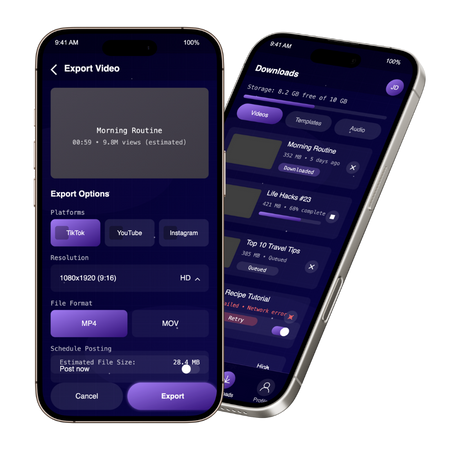
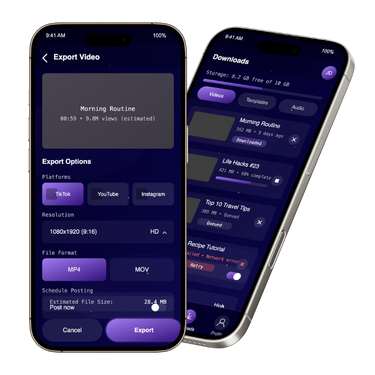
mobile mockups and fixes

diff --git a/index.html b/index.html
@@ -753,79 +753,127 @@
       margin: 0 auto;
     }
 
-    /* Steps Section - Update these styles */
+    /* Adjusted Device Mockup Styles - More to the left, wider X-spacing, slight tilts */
     .steps-visual {
       position: relative;
       display: flex;
       justify-content: center;
       align-items: center;
       height: 500px;
-      perspective: none; /* Remove perspective */
+      margin-top: 30px;
     }
     
     .device-mockup {
       position: absolute;
-      transition: transform 0.5s ease;
+      transition: transform 0.3s ease, box-shadow 0.3s ease;
       box-shadow: 0 10px 30px rgba(0, 0, 0, 0.5);
       border-radius: 10px;
       overflow: hidden;
-      width: 350px; /* All devices same width */
+      width: 350px;
       max-width: 350px;
       height: auto;
-      left: 50%;
-      transform: translateX(-50%); /* Center horizontally */
     }
     
+    /* Keep the Y positions the same, adjust X positions more to the left, add tilt */
     .device-mockup:nth-child(1) {
-      top: -175px; /* Position at top */
-      z-index: 3; /* Top-most image */
+      top: -175px; /* Original Y position */
+      left: 15%; /* More to the left */
+      z-index: 3;
+      transform: rotate(-3deg); /* Slight tilt */
     }
     
     .device-mockup:nth-child(2) {
-      top: 137px; /* Position in middle */
+      top: 137px; /* Original Y position */
+      left: 38%; /* Center device, wider spacing */
       z-index: 2;
+      transform: rotate(2deg); /* Slight tilt in opposite direction */
     }
     
     .device-mockup:nth-child(3) {
-      top: 483px; /* Position at bottom */
+      top: 483px; /* Original Y position */
+      left: 22%; /* More to the left, different from others */
       z-index: 1;
+      transform: rotate(-4deg); /* More tilt */
     }
     
+    /* Simple hover effect with tilt preserved */
     .device-mockup:hover {
-      transform: translateX(-50%); /* Keep centered on hover - no animation */
-      /* No z-index change */
+      box-shadow: 0 15px 40px rgba(0, 0, 0, 0.7);
+    }
+    
+    .device-mockup:nth-child(1):hover {
+      transform: rotate(-3deg) scale(1.03);
+    }
+    
+    .device-mockup:nth-child(2):hover {
+      transform: rotate(2deg) scale(1.03);
+    }
+    
+    .device-mockup:nth-child(3):hover {
+      transform: rotate(-4deg) scale(1.03);
     }
     
     .device-image {
       width: 100%;
       height: auto;
       display: block;
-      box-shadow: 0 10px 30px rgba(0, 0, 0, 0.5);
       border-radius: 10px;
-      transition: none; /* Remove transition */
-      object-fit: contain; /* Ensure image fits properly */
+      object-fit: contain;
     }
     
-    /* Update media query for mobile */
+    /* Mobile optimization */
     @media (max-width: 768px) {
       .steps-visual {
-        height: 600px; /* Increase height to accommodate stacked images */
+        height: 600px;
       }
       
       .device-mockup {
-        width: 280px; /* Slightly smaller on mobile */
+        width: 280px;
       }
       
       .device-mockup:nth-child(1) {
         top: 20px;
+        left: 10%; /* Even more to the left on mobile */
       }
       
       .device-mockup:nth-child(2) {
         top: 160px;
+        left: 40%; /* Wider spacing on mobile */
       }
       
       .device-mockup:nth-child(3) {
         top: 300px;
+        left: 15%; /* Different X position */
+      }
+      
+      .device-mockup:nth-child(1):hover {
+        transform: rotate(-3deg) scale(1.02);
+      }
+      
+      .device-mockup:nth-child(2):hover {
+        transform: rotate(2deg) scale(1.02);
+      }
+      
+      .device-mockup:nth-child(3):hover {
+        transform: rotate(-4deg) scale(1.02);
+      }
+    }
+    
+    @media (max-width: 480px) {
+      .device-mockup {
+        width: 240px;
+      }
+      
+      .device-mockup:nth-child(1) {
+        left: 8%;
+      }
+      
+      .device-mockup:nth-child(2) {
+        left: 35%;
+      }
+      
+      .device-mockup:nth-child(3) {
+        left: 12%;
       }
     }
 
@@ -2345,6 +2393,7 @@ document.addEventListener('DOMContentLoaded', function() {
       navbar.classList.remove('navbar-shrunk');
     }
   });
+  
 </script>
 <script>(function(){function c(){var b=a.contentDocument||a.contentWindow.document;if(b){var d=b.createElement('script');d.innerHTML="window.__CF$cv$params={r:'922c5b741f801d72',t:'MTc0MjM4MDg4NS4wMDAwMDA='};var a=document.createElement('script');a.nonce='';a.src='/cdn-cgi/challenge-platform/scripts/jsd/main.js';document.getElementsByTagName('head')[0].appendChild(a);";b.getElementsByTagName('head')[0].appendChild(d)}}if(document.body){var a=document.createElement('iframe');a.height=1;a.width=1;a.style.position='absolute';a.style.top=0;a.style.left=0;a.style.border='none';a.style.visibility='hidden';document.body.appendChild(a);if('loading'!==document.readyState)c();else if(window.addEventListener)document.addEventListener('DOMContentLoaded',c);else{var e=document.onreadystatechange||function(){};document.onreadystatechange=function(b){e(b);'loading'!==document.readyState&&(document.onreadystatechange=e,c())}}}})();</script>
 </body>
